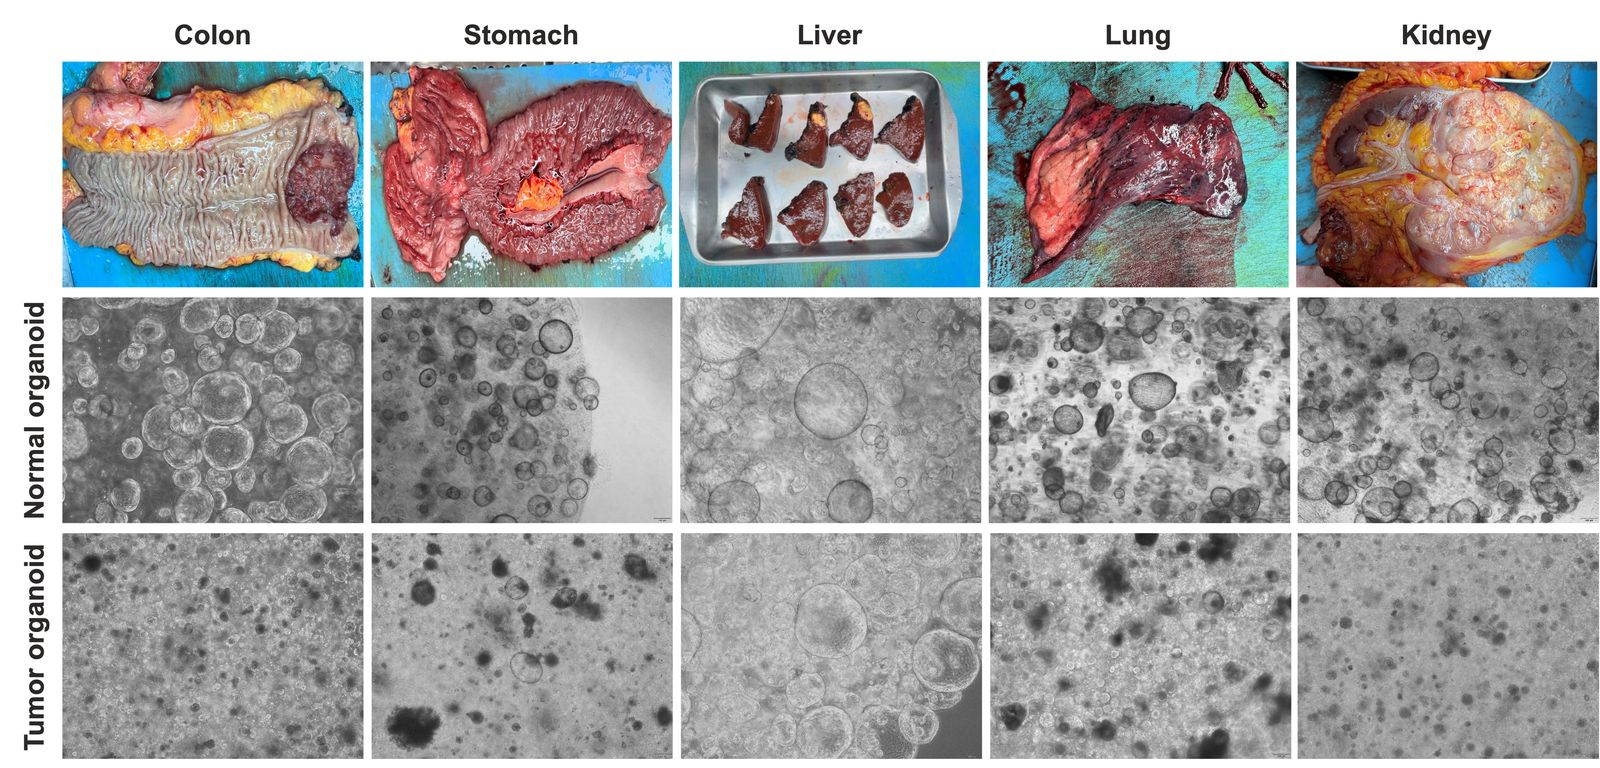
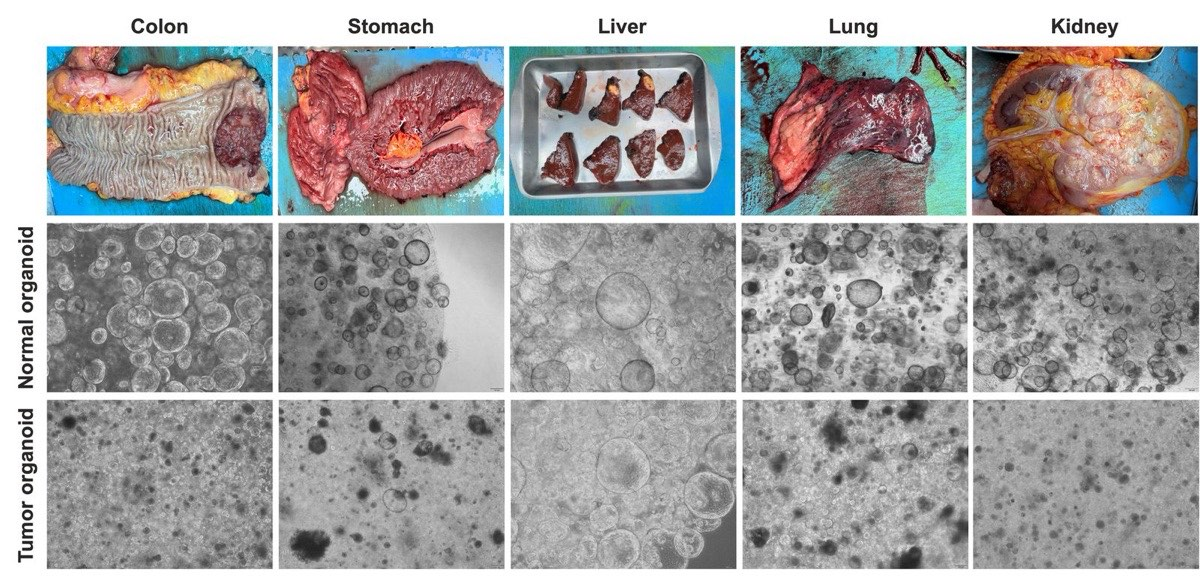
Add WebP images, lazy loading, and width/height to prevent layout shift
Generates a WebP version of every photo (served via <picture>/<source>
with the original JPG as fallback) and re-encodes the oversized
organoid panel image, cutting total photo payload roughly in half for
browsers that support WebP. Adds loading="lazy" + decoding="async" to
every below-the-fold image and explicit width/height attributes
matching each image's intrinsic size to avoid cumulative layout shift.

Changed region(s): [[0.8942, 0.0312, 0.925, 0.0625], [0.6167, 0.0938, 0.6475, 0.125], [0.185, 0.3438, 0.2158, 0.375]]

diff --git a/index.html b/index.html
@@ -292,7 +292,10 @@
       </div>
 
       <div class="flagship">
-        <img class="flagship-img" src="assets/photos/organoid-panel.jpg" alt="Normal and tumor organoids cultured from colon, stomach, liver, lung and kidney surgical specimens in the O2B Lab">
+        <picture>
+          <source srcset="assets/photos/organoid-panel.webp" type="image/webp">
+          <img class="flagship-img" src="assets/photos/organoid-panel.jpg" width="1200" height="576" alt="Normal and tumor organoids cultured from colon, stomach, liver, lung and kidney surgical specimens in the O2B Lab" loading="lazy" decoding="async">
+        </picture>
         <div class="flagship-body">
           <span class="flagship-tag" data-en="Flagship Program" data-ko="핵심 연구과제">Flagship Program</span>
           <h3 data-en="Multi-organ organoid &amp; organ-chip platform" data-ko="다장기 오가노이드 및 organ-chip 플랫폼">Multi-organ organoid &amp; organ-chip platform</h3>
@@ -412,7 +415,10 @@
     <div class="wrap pi-grid">
       <div class="pi-card">
         <div class="pi-avatar">
-          <img src="assets/photos/kang-sanghee.jpg" alt="Sanghee Kang, M.D., Ph.D.">
+          <picture>
+            <source srcset="assets/photos/kang-sanghee.webp" type="image/webp">
+            <img src="assets/photos/kang-sanghee.jpg" width="480" height="600" alt="Sanghee Kang, M.D., Ph.D." loading="lazy" decoding="async">
+          </picture>
         </div>
         <div class="pbody">
           <p class="pname">Sanghee Kang, M.D., Ph.D.</p>
@@ -463,7 +469,10 @@
 
       <div class="team-grid">
         <div class="person-card">
-          <img class="person-photo" src="assets/photos/bong-junwoo.jpg" alt="Jun Woo Bong, M.D.">
+          <picture>
+            <source srcset="assets/photos/bong-junwoo.webp" type="image/webp">
+            <img class="person-photo" src="assets/photos/bong-junwoo.jpg" width="480" height="600" alt="Jun Woo Bong, M.D." loading="lazy" decoding="async">
+          </picture>
           <div class="person-info">
             <p class="pn">Jun Woo Bong <span class="kr">봉준우</span></p>
             <p class="pr" data-en="Professor, Division of Colon and Rectal Surgery" data-ko="교수, 대장항문외과">Professor, Division of Colon and Rectal Surgery</p>
@@ -471,7 +480,10 @@
           </div>
         </div>
         <div class="person-card">
-          <img class="person-photo" src="assets/photos/ju-yeonuk.jpg" alt="Yeonuk Ju, M.D.">
+          <picture>
+            <source srcset="assets/photos/ju-yeonuk.webp" type="image/webp">
+            <img class="person-photo" src="assets/photos/ju-yeonuk.jpg" width="480" height="600" alt="Yeonuk Ju, M.D." loading="lazy" decoding="async">
+          </picture>
           <div class="person-info">
             <p class="pn">Yeonuk Ju <span class="kr">주연욱</span></p>
             <p class="pr" data-en="Professor, Division of Colon and Rectal Surgery" data-ko="교수, 대장항문외과">Professor, Division of Colon and Rectal Surgery</p>
@@ -479,7 +491,10 @@
           </div>
         </div>
         <div class="person-card">
-          <img class="person-photo" src="assets/photos/kim-bugyeom.jpg" alt="Bu-Gyeom Kim, Ph.D.">
+          <picture>
+            <source srcset="assets/photos/kim-bugyeom.webp" type="image/webp">
+            <img class="person-photo" src="assets/photos/kim-bugyeom.jpg" width="480" height="600" alt="Bu-Gyeom Kim, Ph.D." loading="lazy" decoding="async">
+          </picture>
           <div class="person-info">
             <p class="pn">Bu-Gyeom Kim, Ph.D. <span class="kr">김부겸</span></p>
             <p class="pr" data-en="Research Scientist, O2B Lab" data-ko="연구원, O2B Lab">Research Scientist, O2B Lab</p>
@@ -487,7 +502,10 @@
           </div>
         </div>
         <div class="person-card">
-          <img class="person-photo" src="assets/photos/kim-wooyoung.jpg" alt="Woo Young Kim, M.D.">
+          <picture>
+            <source srcset="assets/photos/kim-wooyoung.webp" type="image/webp">
+            <img class="person-photo" src="assets/photos/kim-wooyoung.jpg" width="480" height="600" alt="Woo Young Kim, M.D." loading="lazy" decoding="async">
+          </picture>
           <div class="person-info">
             <p class="pn">Woo Young Kim <span class="kr">김우영</span></p>
             <p class="pr" data-en="Professor, Division of Breast and Endocrine Surgery" data-ko="교수, 유방내분비외과">Professor, Division of Breast and Endocrine Surgery</p>
@@ -568,7 +586,10 @@
   </section>
 
   <div class="photo-banner">
-    <img src="assets/photos/guro-hospital.jpg" alt="Korea University Guro Hospital building exterior">
+    <picture>
+      <source srcset="assets/photos/guro-hospital.webp" type="image/webp">
+      <img src="assets/photos/guro-hospital.jpg" width="600" height="375" alt="Korea University Guro Hospital building exterior" loading="lazy" decoding="async">
+    </picture>
     <div class="cap"><b data-en="Korea University Guro Hospital" data-ko="고려대학교 구로병원">Korea University Guro Hospital</b> — <span data-en="Department of Surgery" data-ko="외과학교실">Department of Surgery</span></div>
   </div>
 </main>
